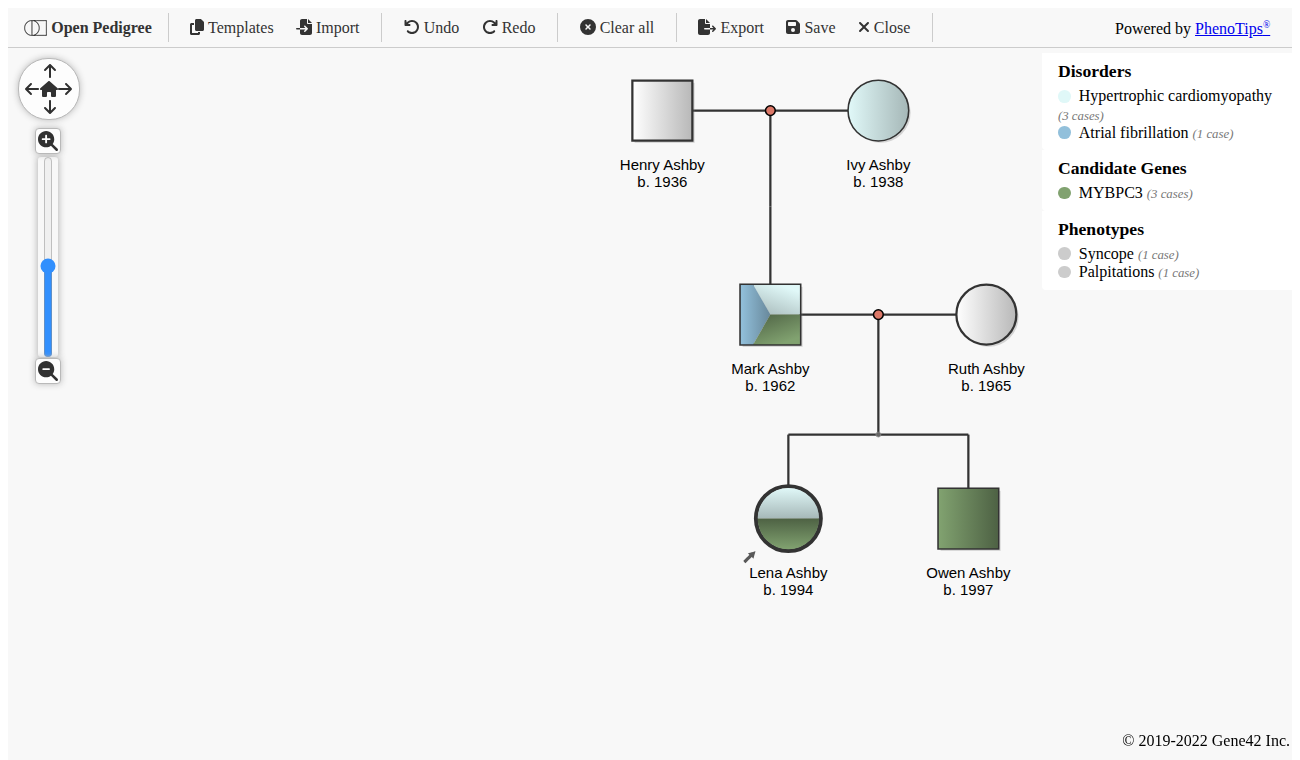
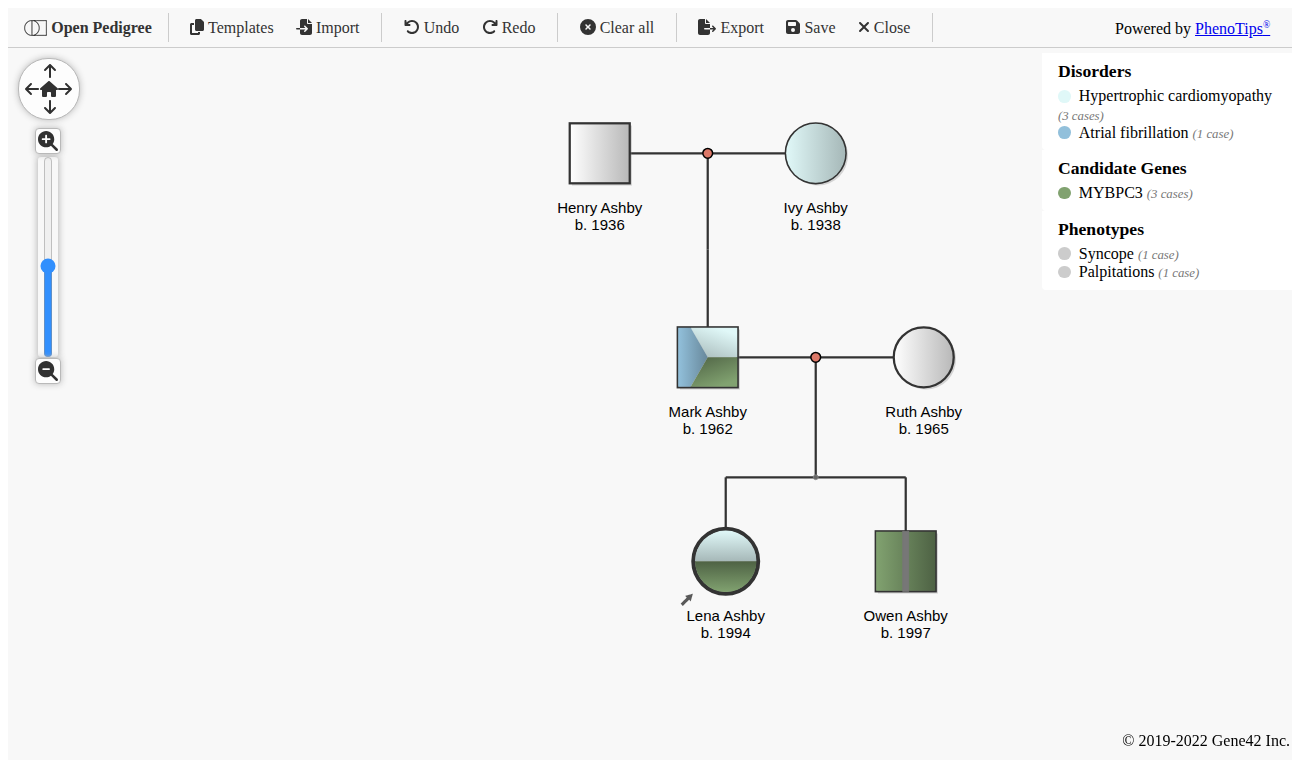
docs: legends example carries its own compression and carrier statuses; warn about changing terminology
From the final review of the legends example:
- The diagram field is @PEDIGREE=HIDE_TEXT,COMPRESS_LARGE, so the Ashby
  pedigree (over the field's size limit) is stored compressed whatever the
  project's Compress Data setting.
- A Carrier status field (mapsTo carrierStatus) draws Owen and Nina, who
  carry their family's variant with no condition, as pre-symptomatic rather
  than as affected. Rebuilt, redrawn and re-exported with open-pedigree
  1.4.9: every legend value is coded; re-imported and smoke-checked.
- The HPO + omim "try" step now says to try it on a copy or without saving:
  stored SNOMED CT values don't belong to that terminology's code systems,
  so disorders are read back as plain text and phenotypes are left out, and
  a save stores them that way. The @PEDIGREE_FIELD section says the same
  about changing Default Terminology once pedigrees exist, and no longer
  says a code from another system is exported under the wrong system (it's
  saved as text).
- Import steps: enable the ontology provider before using the fields; the
  Ontology Server URL only needs to look codes up; a note on building the
  project from data-dictionary.csv.

Changed region(s): [[0.5231, 0.3632, 0.8, 0.575], [0.5231, 0.6053, 0.7692, 0.8474], [0.4308, 0.0908, 0.7077, 0.3026]]

diff --git a/README.md b/README.md
@@ -335,7 +335,11 @@ fields are never included - this is opt-in, the same way `@PEDIGREE` marks the o
   | `hpo_positive` | SNOMED CT (`http://snomed.info/sct`) | HPO (`http://purl.obolibrary.org/obo/hp.owl`) | the custom phenotype system |
   | `candidate_genes` | HGNC (`http://purl.bioontology.org/ontology/HGNC/hgnc.owl`) | HGNC (same) | the custom gene system |
 
-  A code from another system gets no name (it's shown as the code) and is exported under the wrong system.
+  A code from another system gets no name (it's shown as the code) and is saved as text, without a code system.
+  **Changing *Default Terminology* once pedigrees have been saved** changes how they're read back: a saved value coded in
+  the old system is read as its display text (disorders) or left out (phenotypes), and is saved that way the next time
+  the pedigree is saved. Choose the terminology before entering data, or check what a change does on a copy of the
+  project first.
 
   The value is read as the ontology providers store it by default: `code|system` (redcap_fhir_ontology_provider)
   or a bare code (advanced_fhir_ontology_provider). A field whose provider has a different code template (e.g.
@@ -687,10 +691,11 @@ feed the pedigree's legends once the relative is linked.
 
 **What it shows**
 
-- A classic (non-longitudinal) project: *Family history* holds the diagram field (`@PEDIGREE=HIDE_TEXT`) and
-  *Relatives* repeats, one row per relative, so linking works without events too.
-- *Relatives* maps first and last name, sex and date of birth with `mapsTo`, and has four ontology fields tagged
-  with [`@PEDIGREE_FIELD(legend=...)`](#the-pedigree_field-action-tag):
+- A classic (non-longitudinal) project: *Family history* holds the diagram field (`@PEDIGREE=HIDE_TEXT,COMPRESS_LARGE`,
+  so the Ashby family's pedigree, which is over the field's size limit, is stored compressed whatever the project's
+  *Compress Data* setting) and *Relatives* repeats, one row per relative, so linking works without events too.
+- *Relatives* maps first and last name, sex, date of birth and carrier status with `mapsTo`, and has four ontology
+  fields tagged with [`@PEDIGREE_FIELD(legend=...)`](#the-pedigree_field-action-tag):
   - *Primary condition* and *Other condition* - SNOMED CT (`http://snomed.info/sct?fhir_vs=refset/32570581000036105`),
     both `legend="disorders"`, so a person with two conditions shows both;
   - *Gene with a variant* - HGNC (`http://www.genenames.org`), `legend="candidate_genes"`;
@@ -699,8 +704,9 @@ feed the pedigree's legends once the relative is linked.
   *Clinic notes* has no tag, so it never reaches the diagram.
 - Two families, both drawn with every person linked:
   - **Record 1, the Ashby family** - hypertrophic cardiomyopathy and MYBPC3. Mark has two conditions (hypertrophic
-    cardiomyopathy and atrial fibrillation); his son Owen carries the variant with no condition.
-  - **Record 2, the Brook family** - dilated cardiomyopathy and TTN.
+    cardiomyopathy and atrial fibrillation); his son Owen carries the variant with no condition (pre-symptomatic).
+  - **Record 2, the Brook family** - dilated cardiomyopathy and TTN; Theo's sister Nina carries the variant
+    (pre-symptomatic).
 
 ![The Ashby family's pedigree with its disorders, candidate genes and phenotypes legends](documentation/example-legends/legends-ashby-family.png)
 
@@ -709,17 +715,21 @@ feed the pedigree's legends once the relative is linked.
 1. *New Project* > *Upload a REDCap project XML file (CDISC ODM format)*, and choose
    `documentation/example-legends/pedigree-editor-example-legends.REDCap.xml`.
 2. Make sure redcap_fhir_ontology_provider is installed with *FHIR API URL* `https://tx.ontoserver.csiro.au/fhir`
-   (Control Center), and enable both it and the Pedigree Editor module on the new project. The legends look their
-   names up through the Pedigree Editor's own *Ontology Server URL* system setting, so that needs to be a server with
-   these value sets too (Ontoserver is the default).
+   (Control Center), and enable both it and the Pedigree Editor module on the new project before using it: the
+   ontology fields keep their value sets through the import, but are only searchable, and only feed the legends, with
+   the provider enabled. Names for values that aren't saved in a pedigree yet are looked up through the Pedigree
+   Editor's own *Ontology Server URL* system setting, so that needs to be a FHIR terminology server that knows SNOMED
+   CT and HGNC (Ontoserver, the default, does).
 3. Configure the Pedigree Editor module:
    - *Repeating instrument*: `relatives`
    - *Search fields*: `first_name`, `last_name`, `relationship`
    - *Node-edit form source*: *Tags only*
    - *Default Terminology*: *SnomedCT*
    - *Storage Format*: *GA4GH - Recommended Format*
-   - *Compress Data*: *Compress Large Diagrams >65K* - record 1's pedigree is over the field's size limit, so without
-     compression its diagram would be dropped the next time it's saved.
+   - *Compress Data*: *Compress Large Diagrams >65K* (the diagram field's own `COMPRESS_LARGE` does this for it too)
+
+To add the instruments to an existing project from `data-dictionary.csv` instead, make *Relatives* a repeating
+instrument by hand.
 
 The values are stored the way redcap_fhir_ontology_provider stores them by default (`code|system`). The legends use
 the code; the system is ignored, so a bare code works too.
@@ -730,9 +740,11 @@ the code; the system is ignored, so a bare code works too.
   `legend=` tags are ignored: the four fields become ordinary linked items, and each time the editor opens, the web
   server's PHP error log gets one warning per field (`... but the built-in form already has that legend in "default +
   tags" mode ...`). A pedigree keeps the legend entries it already has.
-- ***Default Terminology* HPO + omim.** The disorders and phenotypes legends now expect OMIM and HPO codes, so this example's
-  SNOMED CT values show as bare codes (e.g. `233873004`). The genes still show their names, as HGNC is used either
-  way. Changing the terminology doesn't recode values already entered.
+- ***Default Terminology* HPO + omim** - try this on a copy of the project, or close the editor without saving: it
+  shows why the terminology should be chosen before data is entered. The stored pedigrees' SNOMED CT values don't
+  belong to the HPO terminology's code systems, so the disorders are read back as plain text (their names, without
+  codes), the phenotypes are left out of the pedigree, and saving would store them that way. The genes are unaffected,
+  as HGNC is used either way.
 - ***Default Terminology* Custom**, set up as SnomedCT is (the setting's help lists each value): *Disorder Code
   System* `http://snomed.info/sct` with *Disorder Value Set* `http://snomed.info/sct?fhir_vs=refset/32570581000036105`;
   *Phenotype Code System* `http://snomed.info/sct` with *Phenotype Value Set* `http://ga4gh.org/fhir/ValueSet/phenotype`;
